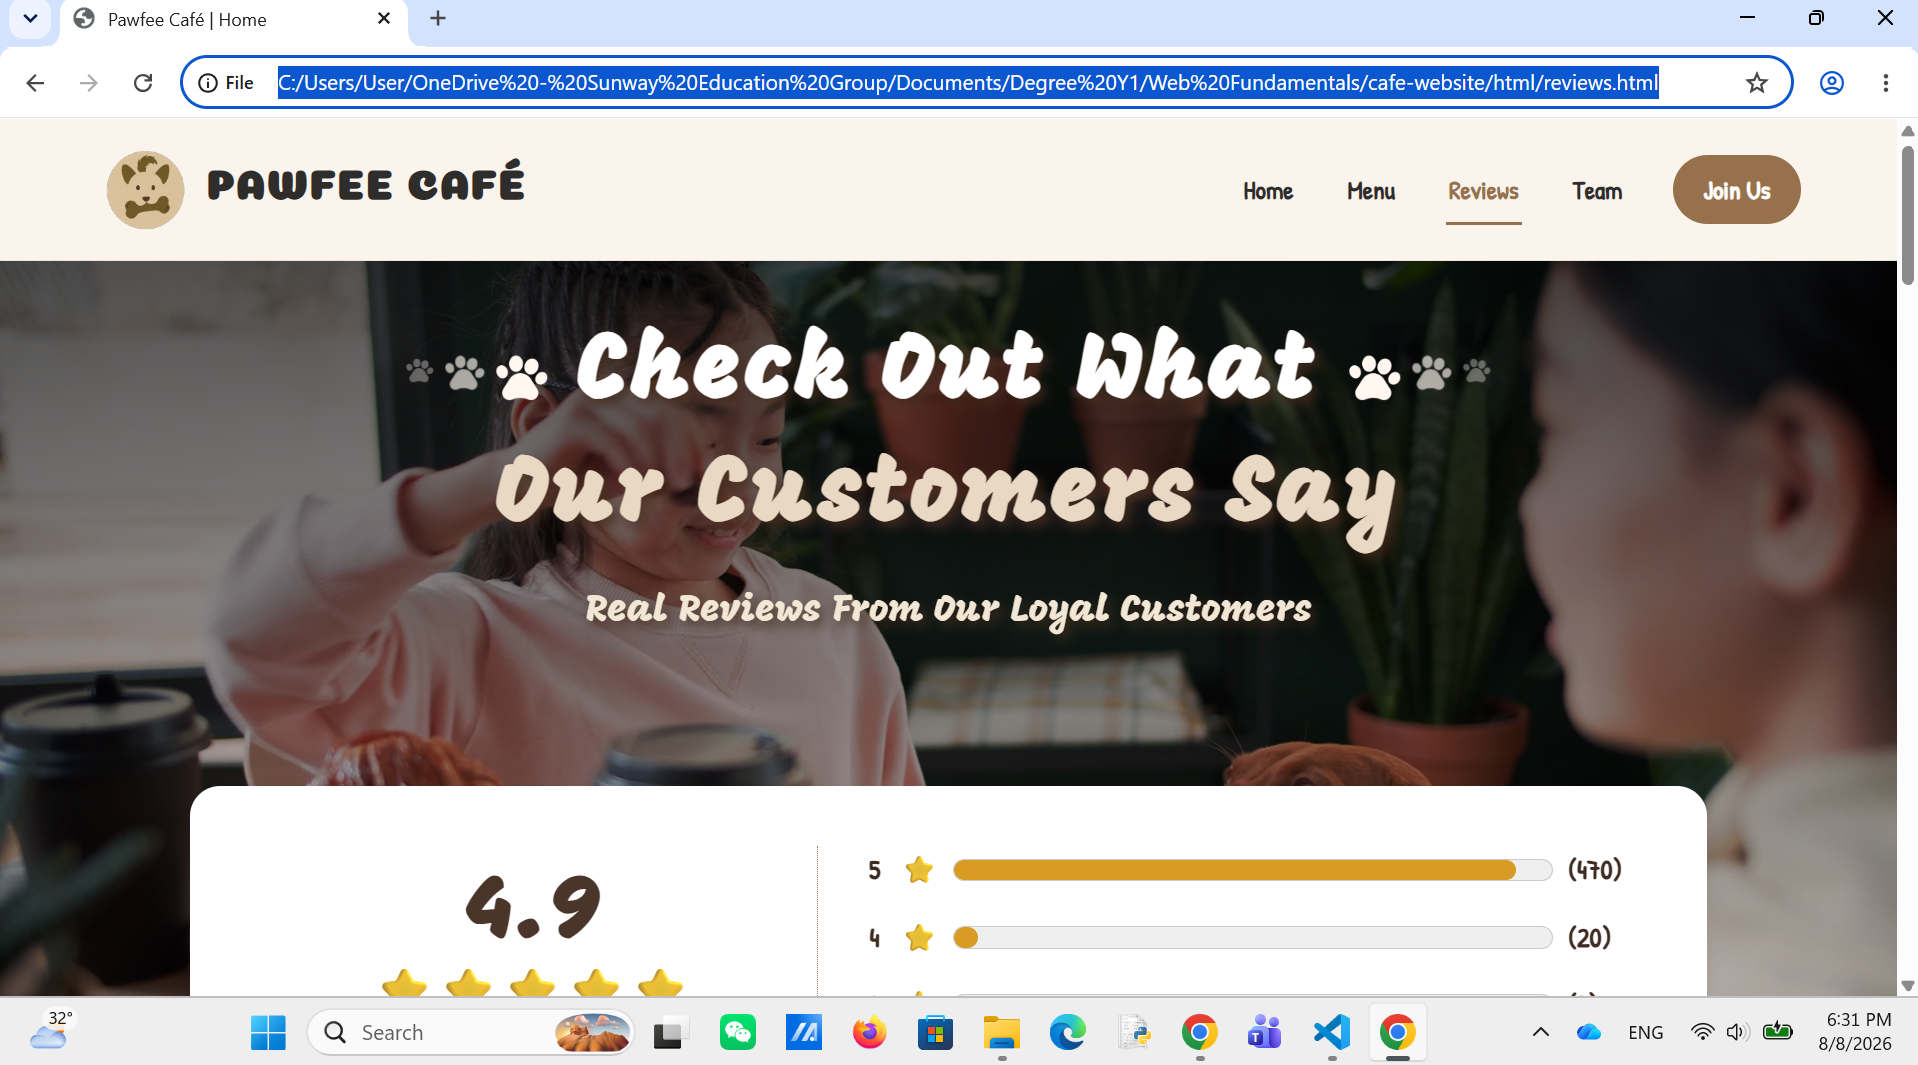
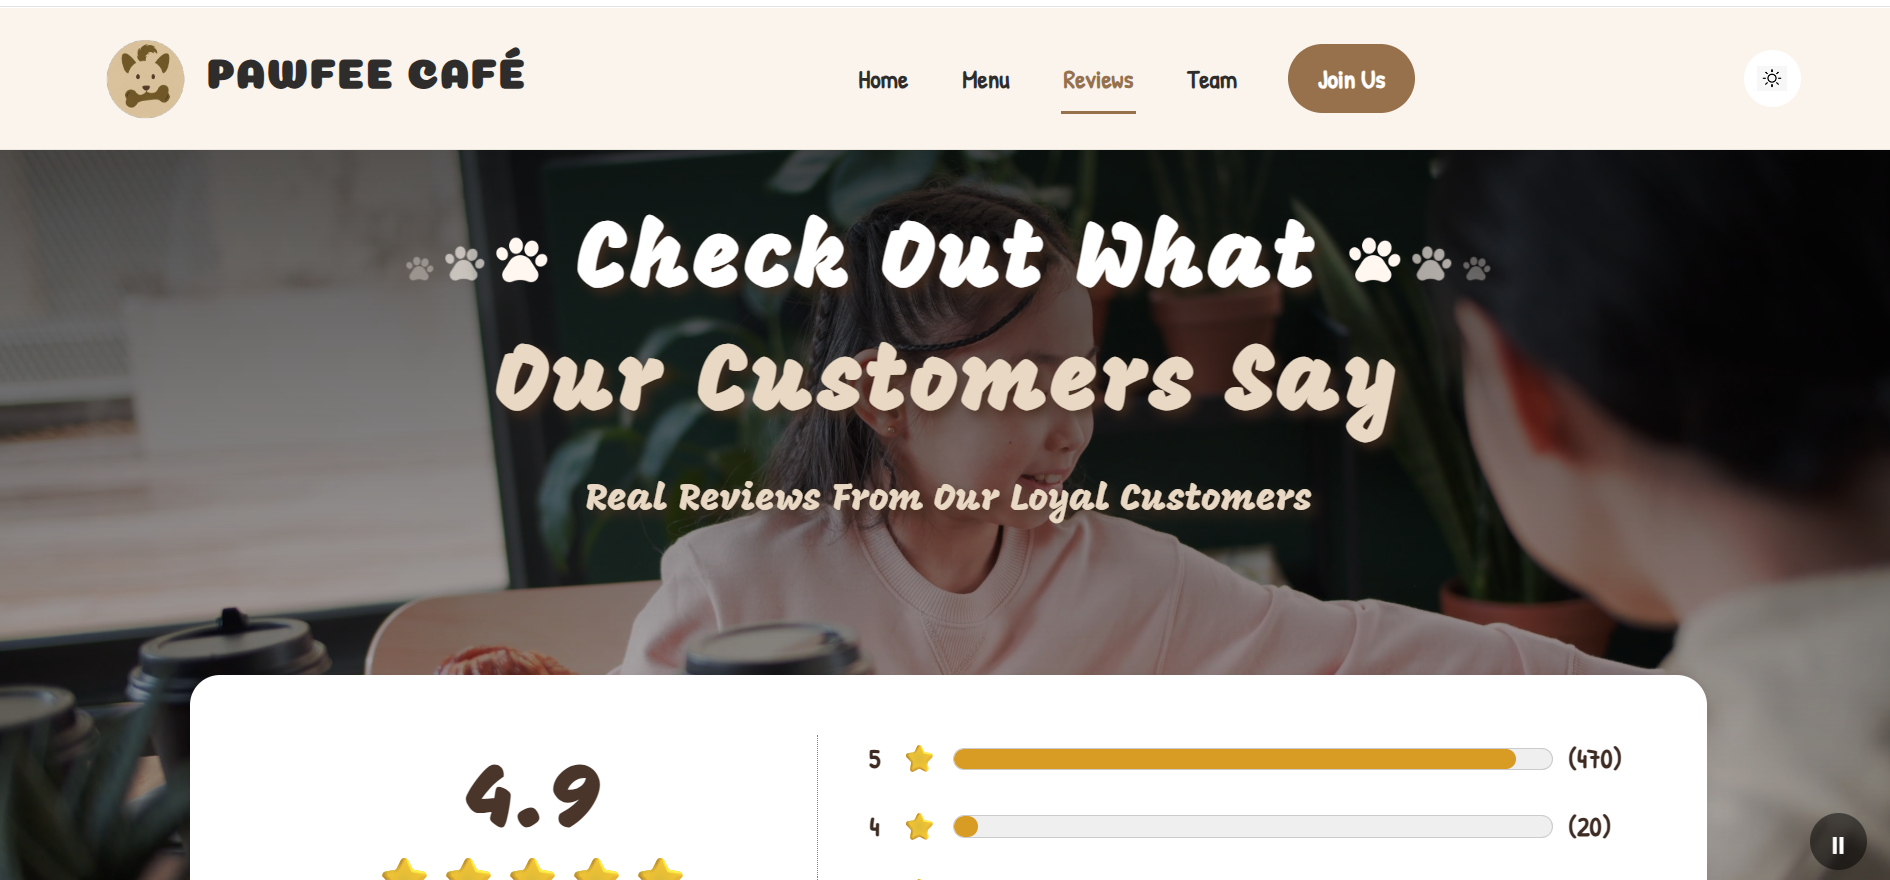
feat: mae's requested updates — new screenshot, education timeline, 100-char limit
- images/reviewpage.png swapped for mae's updated screenshot of her
  Reviews page (used on her own portfolio).
- Added a real education timeline (SPM 2023, FIA 2024–2025, Bachelor
  in Computer Science 2025–2028) to the Education card on her
  portfolio, replacing the two generic placeholder bullets. Built as
  a plain vertical stepper with a year badge per step — deliberately
  not the same look as Jian Jia's card-grid timeline or Xiao Yan's
  glowing-star line, just similar in concept since that's what an
  education timeline is.
- Review textarea character limit dropped from 500 to 100
  (maxlength + the visible counter/label both updated).
- Made the review form's inputs/textarea/select explicitly
  width:100%/box-sizing:border-box instead of relying only on the
  flex column's default stretch behaviour, so they can't spill past
  the form's edge on tablet/mobile.

diff --git a/portfolio/mae_ann.css b/portfolio/mae_ann.css
@@ -254,6 +254,77 @@ body
 	margin:10px 0;
 }
 
+/* ---------- Education Timeline ----------
+   a slim vertical stepper with a year badge on each step — deliberately
+   not the card-grid Jian Jia uses or the glowing-star line Xiao Yan
+   uses for their own education sections, just a plain connected list
+   that fits inside this existing Education card instead of needing
+   its own full-width section */
+.eduTimeline
+{
+	list-style:none;
+	display:flex;
+	flex-direction:column;
+	gap:18px;
+	margin-top:6px;
+}
+
+.eduTimelineItem
+{
+	position:relative;
+	margin:0;
+	padding-left:24px;
+	display:flex;
+	flex-direction:column;
+	gap:2px;
+}
+
+/* connecting line down to the next step */
+.eduTimelineItem::before
+{
+	content:"";
+	position:absolute;
+	left:4px;
+	top:14px;
+	bottom:-18px;
+	width:2px;
+	background:rgba(74,53,42,.18);
+}
+
+.eduTimelineItem:last-child::before
+{
+	display:none;
+}
+
+/* the dot marking each step */
+.eduTimelineItem::after
+{
+	content:"";
+	position:absolute;
+	left:0;
+	top:3px;
+	width:10px;
+	height:10px;
+	border-radius:50%;
+	background:var(--accent);
+	box-shadow:0 0 0 3px var(--white);
+}
+
+.eduYear
+{
+	font-size:.72rem;
+	font-weight:700;
+	letter-spacing:.05em;
+	text-transform:uppercase;
+	color:var(--accent-dark);
+}
+
+.eduTitle
+{
+	font-size:.95rem;
+	color:var(--brown);
+}
+
 /* ---------- Timeline Layout ---------- */
 .journey
 {

diff --git a/portfolio/mae_ann.html b/portfolio/mae_ann.html
@@ -120,9 +120,19 @@
 						<div class="infoCard">
 
 							<h3>Education</h3>
-							<ul>
-								<li>🎓 Degree in Computer Science</li>
-								<li>🏫 Sunway University</li>
+							<ul class="eduTimeline">
+								<li class="eduTimelineItem">
+									<span class="eduYear">2023</span>
+									<span class="eduTitle">SPM</span>
+								</li>
+								<li class="eduTimelineItem">
+									<span class="eduYear">2024 – 2025</span>
+									<span class="eduTitle">FIA</span>
+								</li>
+								<li class="eduTimelineItem">
+									<span class="eduYear">2025 – 2028</span>
+									<span class="eduTitle">Bachelor in Computer Science</span>
+								</li>
 							</ul>
 						</div>
 

diff --git a/html/reviews.html b/html/reviews.html
@@ -424,9 +424,9 @@
 							<option value="⭐☆☆☆☆">⭐☆☆☆☆</option>
 						</select>
 						<label for="reviewText" class="visually-hidden">Your review</label>
-						<textarea id="reviewText" name="reviewText" placeholder="Write your review..." maxlength="500" required></textarea>
+						<textarea id="reviewText" name="reviewText" placeholder="Write your review..." maxlength="100" required></textarea>
 						<p class="characterCount">
-							<span id="charCount">0</span>/500 characters
+							<span id="charCount">0</span>/100 characters
 						</p>
 						<button type="submit" class="submitButton" id="reviewSubmitBtn">Submit Review</button>
 					</form>

diff --git a/css/review.css b/css/review.css
@@ -541,6 +541,12 @@ meter::-webkit-meter-optimum-value
 .reviewForm textarea,
 .reviewForm select
 {
+	/* explicit, not just relying on the flex column's default
+	   align-items:stretch — makes sure these never sit narrower (or,
+	   with a stray min-width somewhere, wider) than the form itself
+	   on small screens */
+	width:100%;
+	box-sizing:border-box;
 	padding:15px;
 	border:1px solid var(--accent);
 	border-radius:12px;
@@ -551,6 +557,7 @@ meter::-webkit-meter-optimum-value
 .reviewForm textarea
 {
 	height:150px;
+	max-width:100%;
 	resize:vertical;
 }
 
